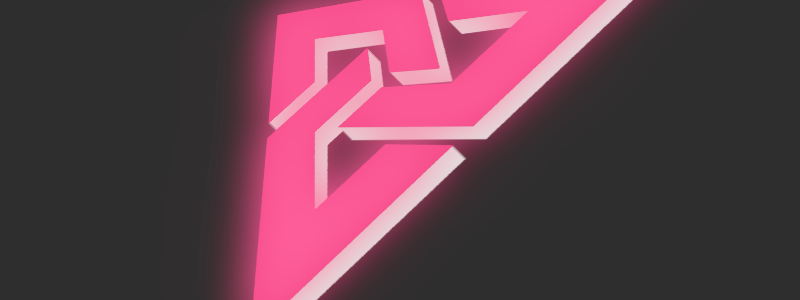
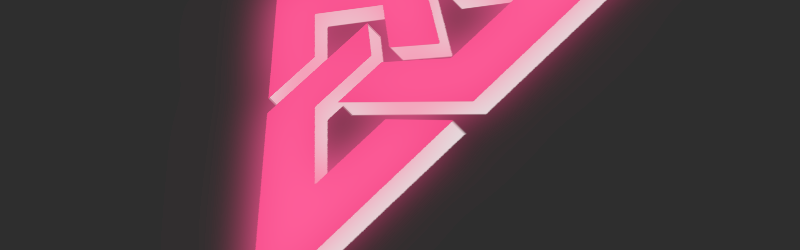
update image

diff --git a/README.md b/README.md
@@ -1,5 +1,5 @@
 <p align="center">
-  <img width="800" height="300" src="https://storage.googleapis.com/virgil-f3dca.appspot.com/proximasocial2.png">
+  <img width="800" height="250" src="https://storage.googleapis.com/virgil-f3dca.appspot.com/proximasocial2.png">
 </p>
 
 # Proxima 
